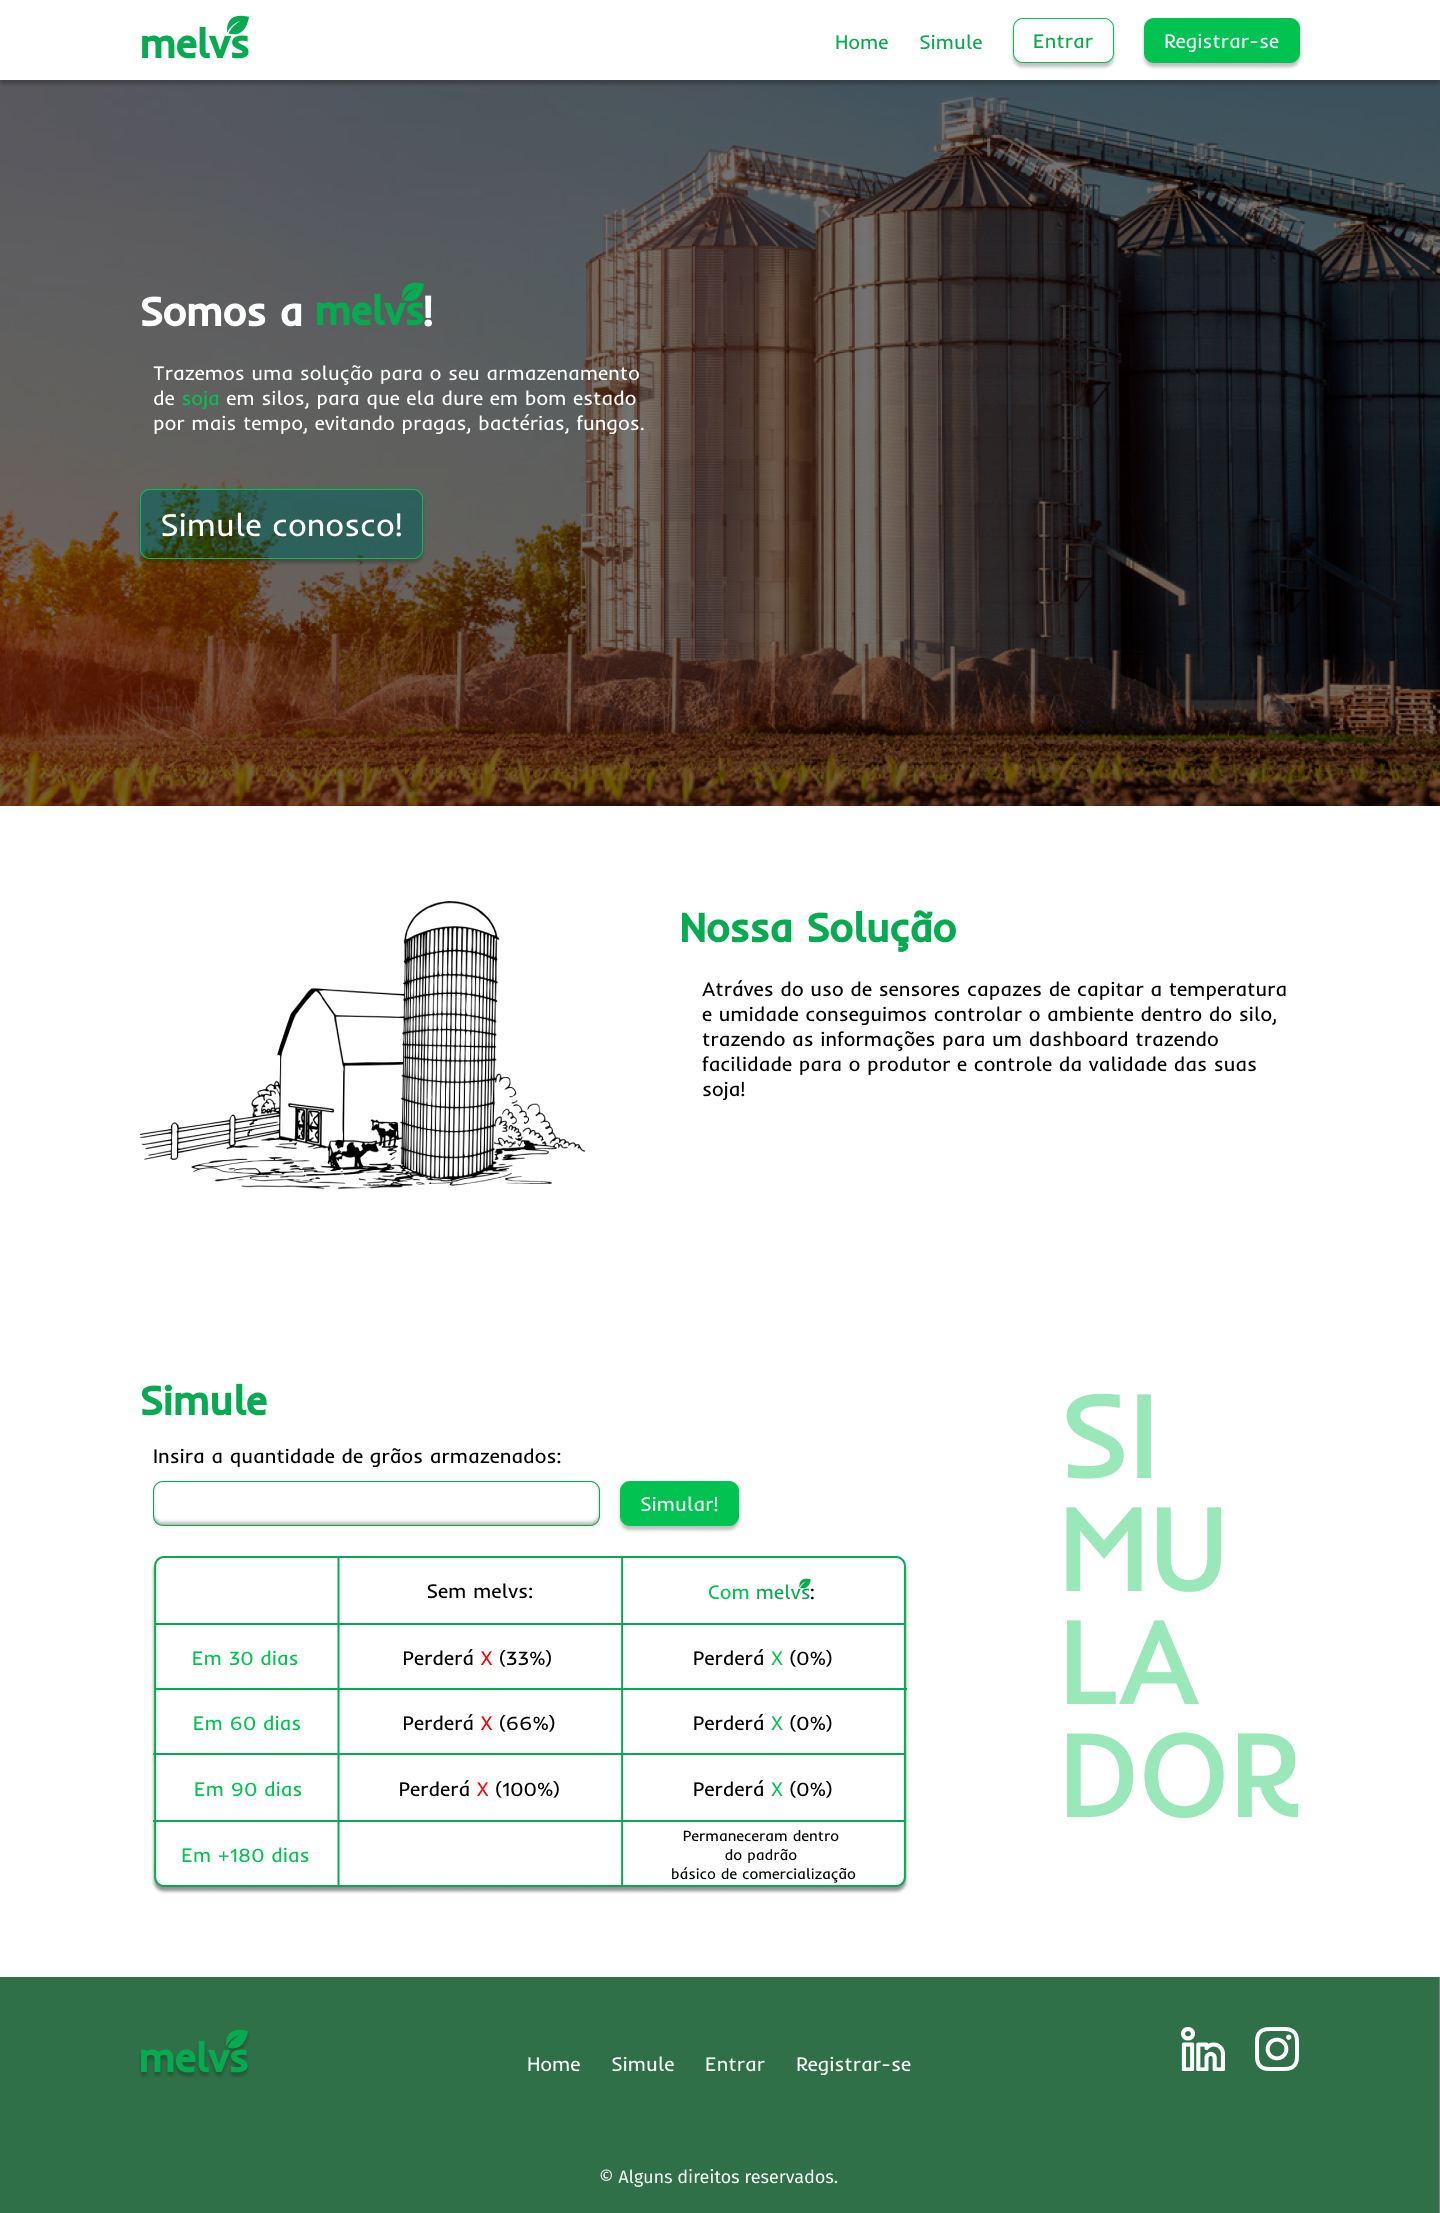
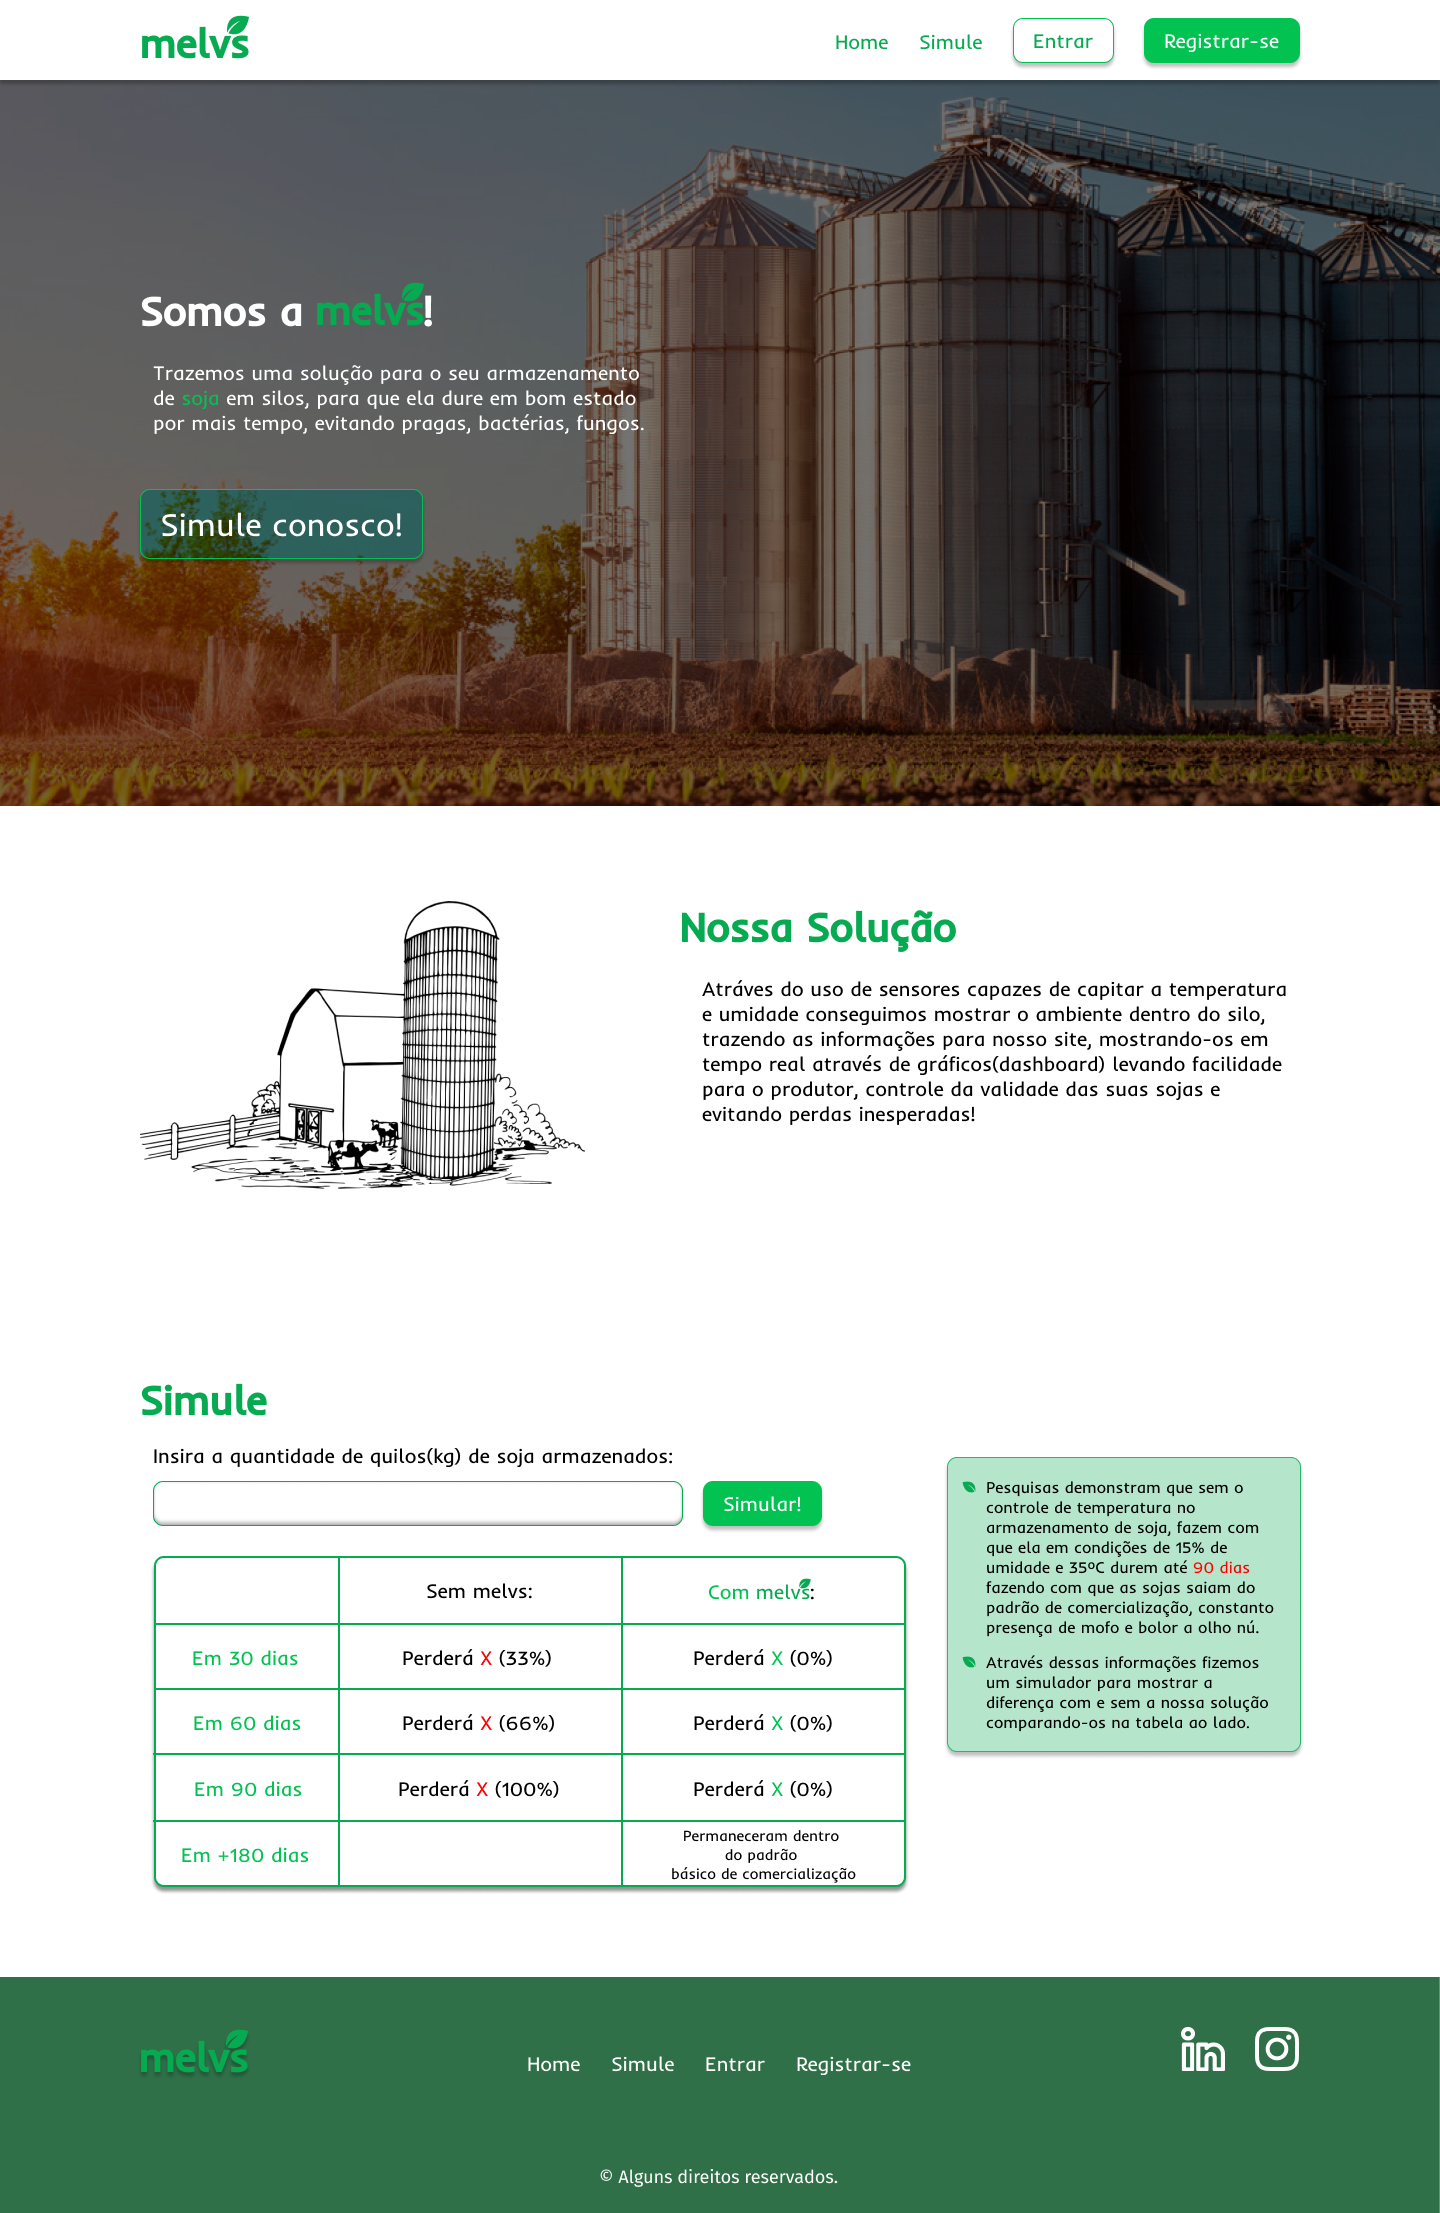
mudanças no prototipo, e na calculadora financeira

diff --git a/Frontend/index.html b/Frontend/index.html
@@ -4,10 +4,25 @@
     <meta charset="UTF-8">
     <meta http-equiv="X-UA-Compatible" content="IE=edge">
     <meta name="viewport" content="width=device-width, initial-scale=1.0">
+    <link rel="preconnect" href="https://fonts.googleapis.com">
+    <link rel="preconnect" href="https://fonts.gstatic.com" crossorigin>
+    <link href="https://fonts.googleapis.com/css2?family=Inder&display=swap" rel="stylesheet">
     <title>Melvs</title>
     <style>
         *{
-            font-family: sans-serif;
+            font-family: 'Inder', sans-serif;
+        }
+
+        body{
+            display: flex;
+        }
+
+        .calculadora{
+            width: 50%;
+        }
+
+        .explicacaoCalculo{
+            width: 50%;
         }
 
         .verde{
@@ -17,26 +32,39 @@
         .vermelho{
             color: red;
         }
+
+        
     </style>
 </head>
 <body>
-    <h1 class="verde">Simule</h1>
-    <p>Insira a quantidade de grãos armazenados:</p> <br>
-    <input type="number" id="input_qtdGraos">
-    <button onclick="calcularPerda()">Simular</button>
-    <div id="div_mostrarResultado"></div>
+    <div class="calculadora">
+        <h1 class="verde">Simule</h1>
+        <p>Insira a quantidade de quilos(kg) de soja armazenados:</p> <br>
+        <input type="number" id="input_qtdGraos">
+        <button onclick="calcularPerda()">Simular</button>
+        <div id="div_mostrarResultado"></div>
+    </div>
+
+    <div class="explicacaoCalculo">
+       <p>
+        Pesquisas demonstram que sem o controle de temperatura no armazenamento de soja, fazem com que ela em condições de 15% de umidade e 35ºC durem até <b class="vermelho">90 dias</b> fazendo com que as sojas saiam do padrão de comercialização, constanto presença de mofo e bolor a olho nú.
+       </p>
+       <p>
+        Através dessas informações fizemos um simulador para mostrar a diferença com e sem a nossa solução comparando-os.
+       </p>
+    </div>
 </body>
 </html>
 <script>
     function calcularPerda(){
-        var perda30Dias = (Number(input_qtdGraos.value) * 0.3).toFixed(0)
-        var perda60Dias = (Number(input_qtdGraos.value) * 0.6).toFixed(0)
-        var perda90Dias = (Number(input_qtdGraos.value) * 1).toFixed(0)
+        var perda30Dias = (Number(input_qtdGraos.value) * 0.3).toFixed(1)
+        var perda60Dias = (Number(input_qtdGraos.value) * 0.6).toFixed(1)
+        var perda90Dias = (Number(input_qtdGraos.value) * 1).toFixed(1)
         div_mostrarResultado.innerHTML = `
         Sem melvs: <br>
-        Em 30 dias você perderá <b class= "vermelho">${perda30Dias} dos seus grãos (33%).</b> <br>
-        Em 60 dias você perderá <b class= "vermelho">${perda60Dias} dos seus grãos (66%).</b> <br>
-        Em 90 dias você perderá <b class= "vermelho">${perda90Dias} dos seus grãos (100%).</b> <br>
+        Em 30 dias você perderá <b class= "vermelho">${perda30Dias}kg de soja (33%).</b> <br>
+        Em 60 dias você perderá <b class= "vermelho">${perda60Dias}kg de soja (66%).</b> <br>
+        Em 90 dias você perderá <b class= "vermelho">${perda90Dias}kg de soja (100%).</b> <br>
         <br>
         Com melvs: <br>
         Em 30 dias você perderá <span class = "verde">0 grãos.</span> <br>
